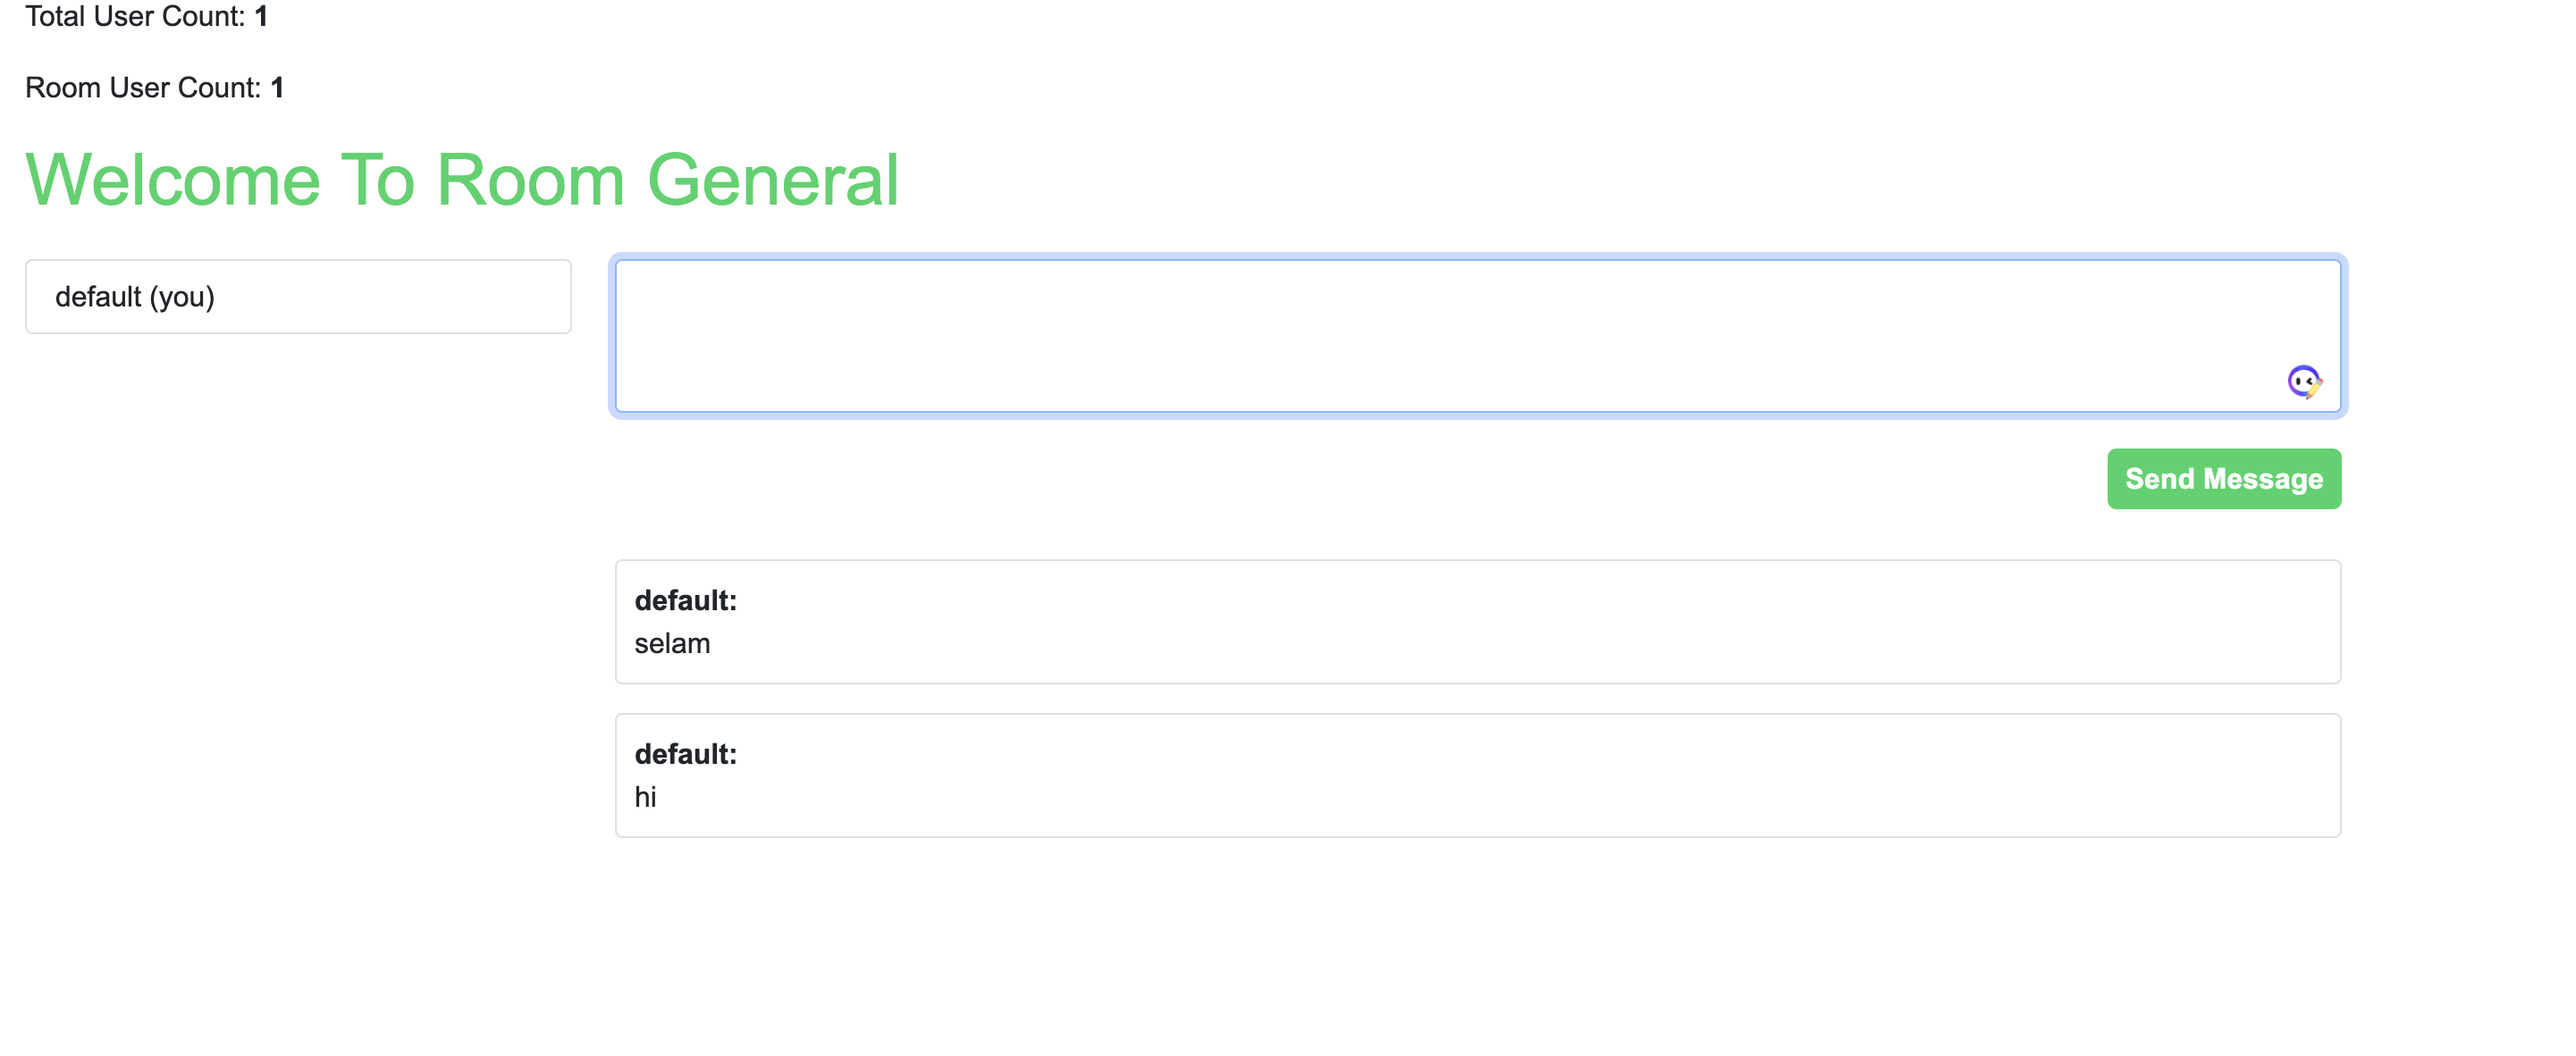
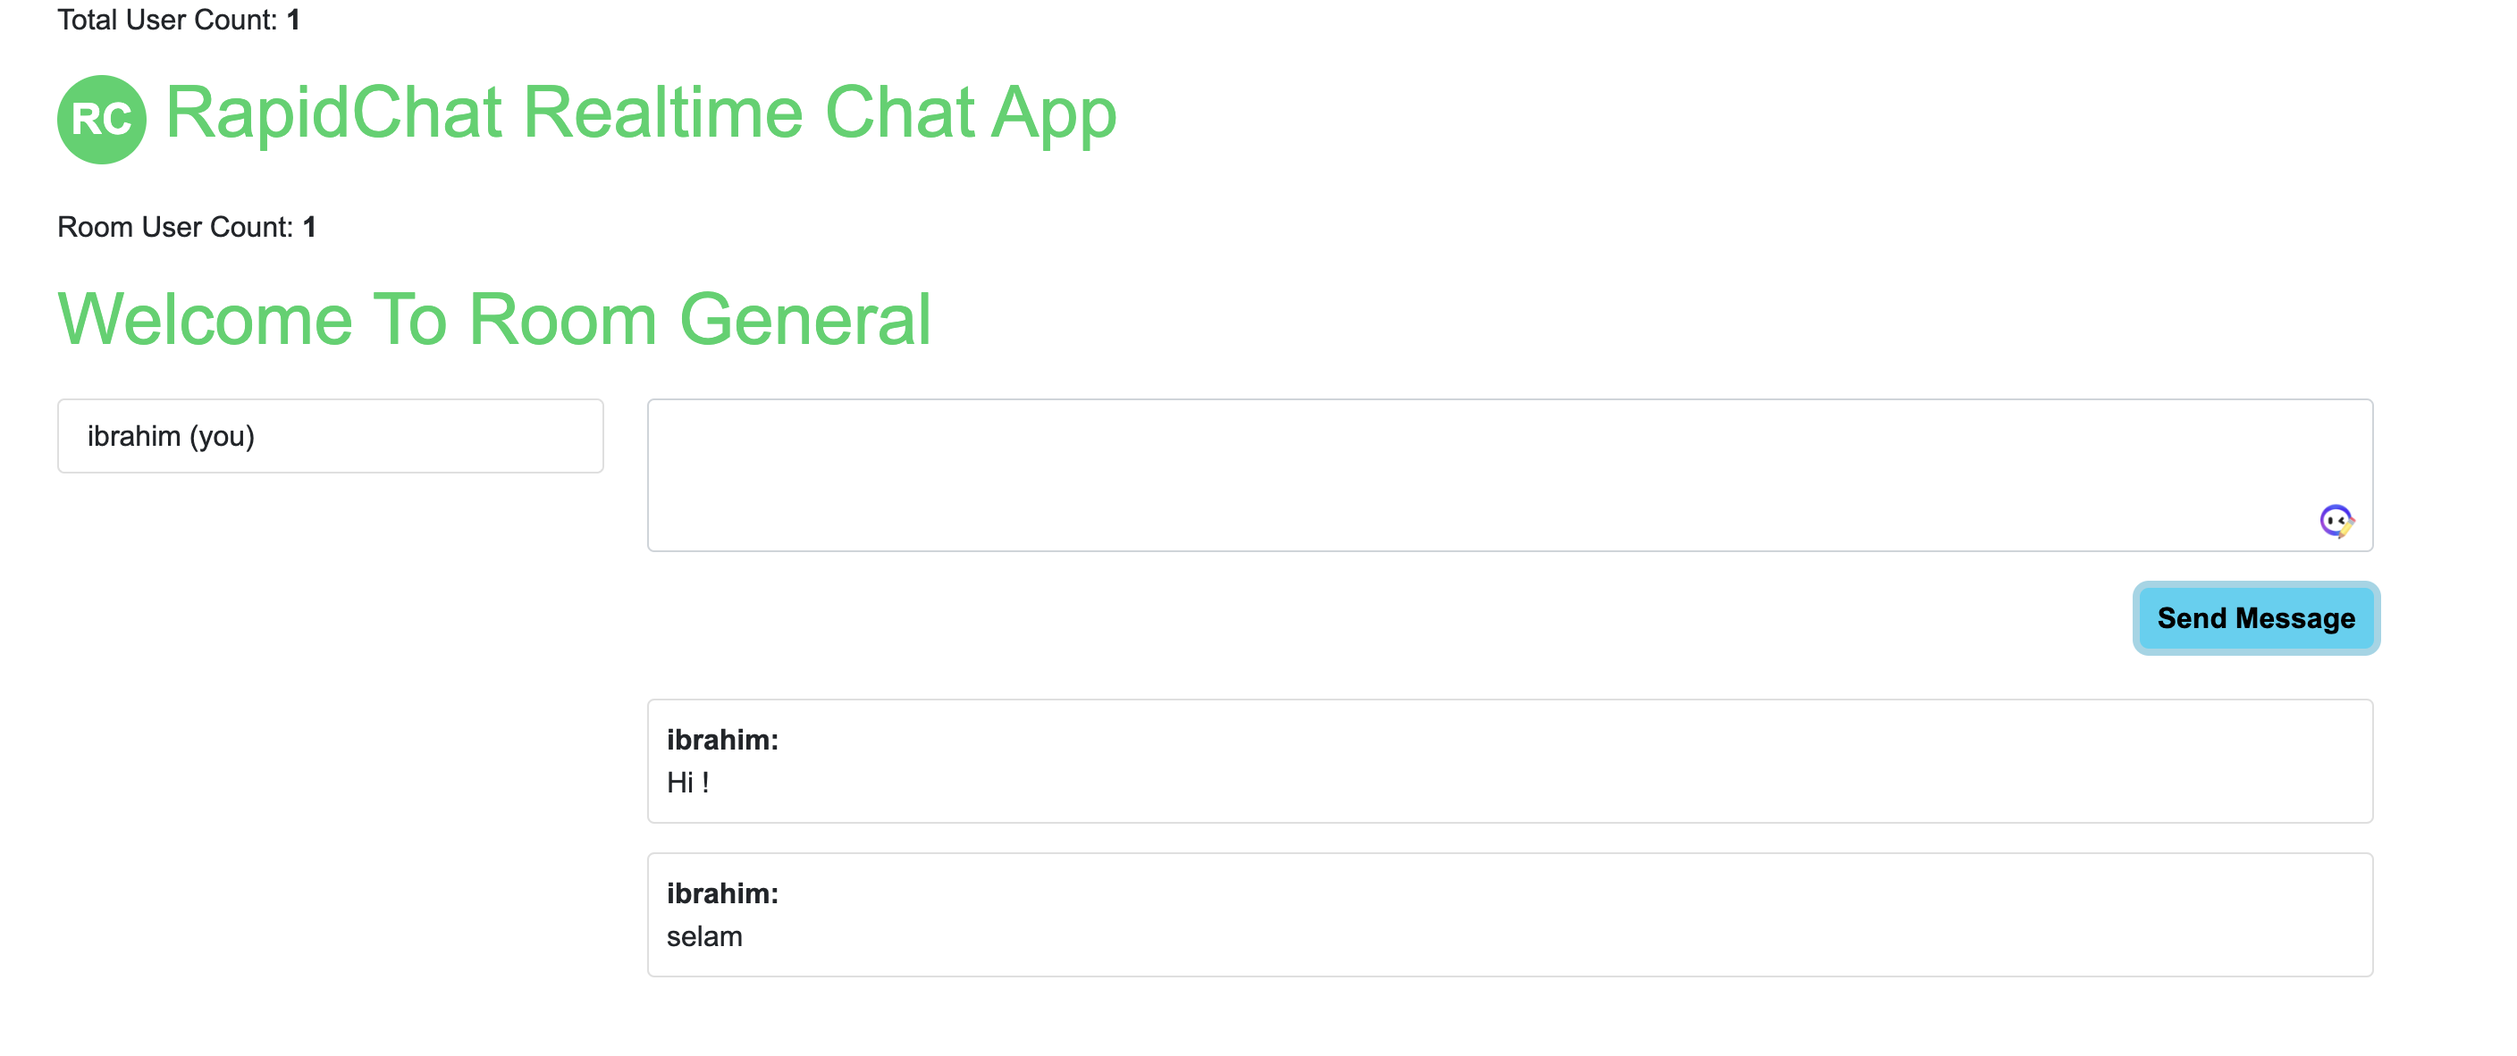
update

diff --git a/public/style.css b/public/style.css
@@ -19,10 +19,32 @@ body {
   padding: 10px;
 }
 
-/* Header */
-h1 {
-  color: #25d366;
+/* Header with Logo */
+.header {
+  display: flex;
+  align-items: center;
   margin-bottom: 20px;
+}
+
+.header h1 {
+  color: #25d366;
+  margin-left: 10px;
+}
+
+#logo {
+  width: 50px;
+  height: 50px;
+  background-color: #25d366;
+  border-radius: 50%;
+  display: flex;
+  justify-content: center;
+  align-items: center;
+}
+
+#logo-text {
+  color: #fff;
+  font-size: 24px;
+  font-weight: bold;
 }
 
 /* User Count */

diff --git a/index.html b/index.html
@@ -19,6 +19,14 @@
   <body class="container">
     <p>Total User Count: <span id="txtTotalUserCount"></span></p>
 
+    <!-- Header with Logo -->
+    <div class="header">
+      <div id="logo">
+        <span id="logo-text">RC</span>
+      </div>
+      <h1>RapidChat Realtime Chat App</h1>
+    </div>
+
     <div id="areaJoinRoom">
       <h1>Join Room Screen</h1>
       <input

diff --git a/README.md b/README.md
@@ -2,5 +2,5 @@
 
 Real-time chat application using Node.js, Socket.io, and MongoDB
 
-![Join](image-1.png)
+![Join](image-2.png)
 ![Room](image.png)
